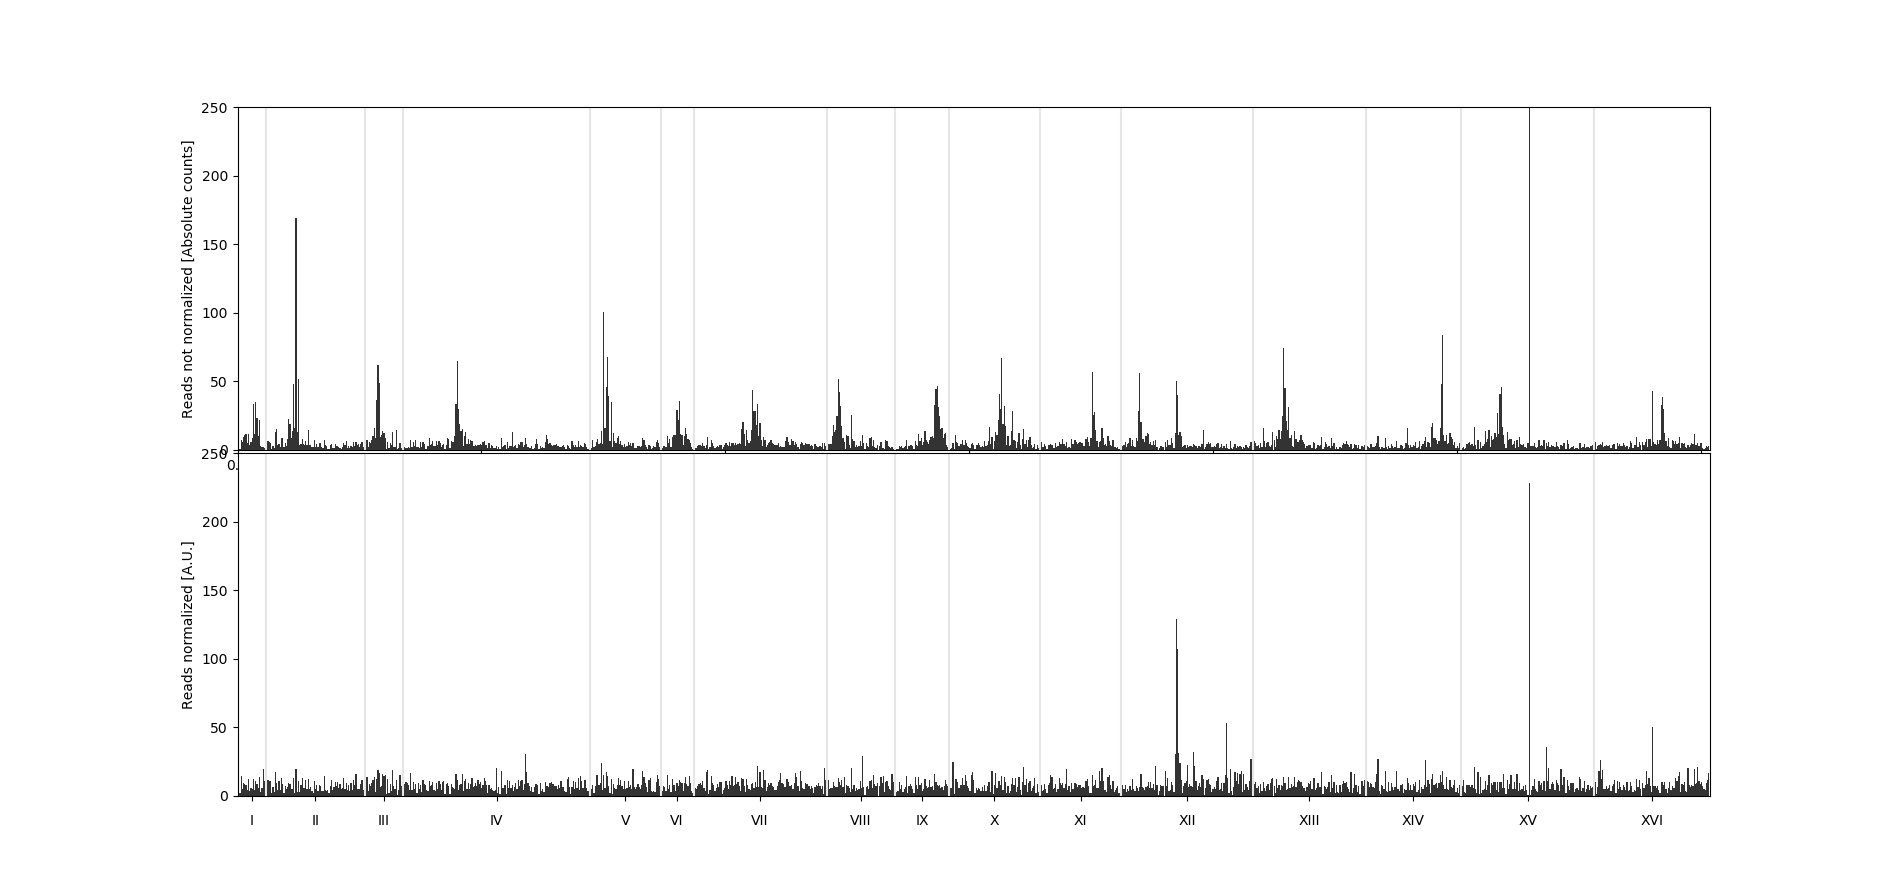
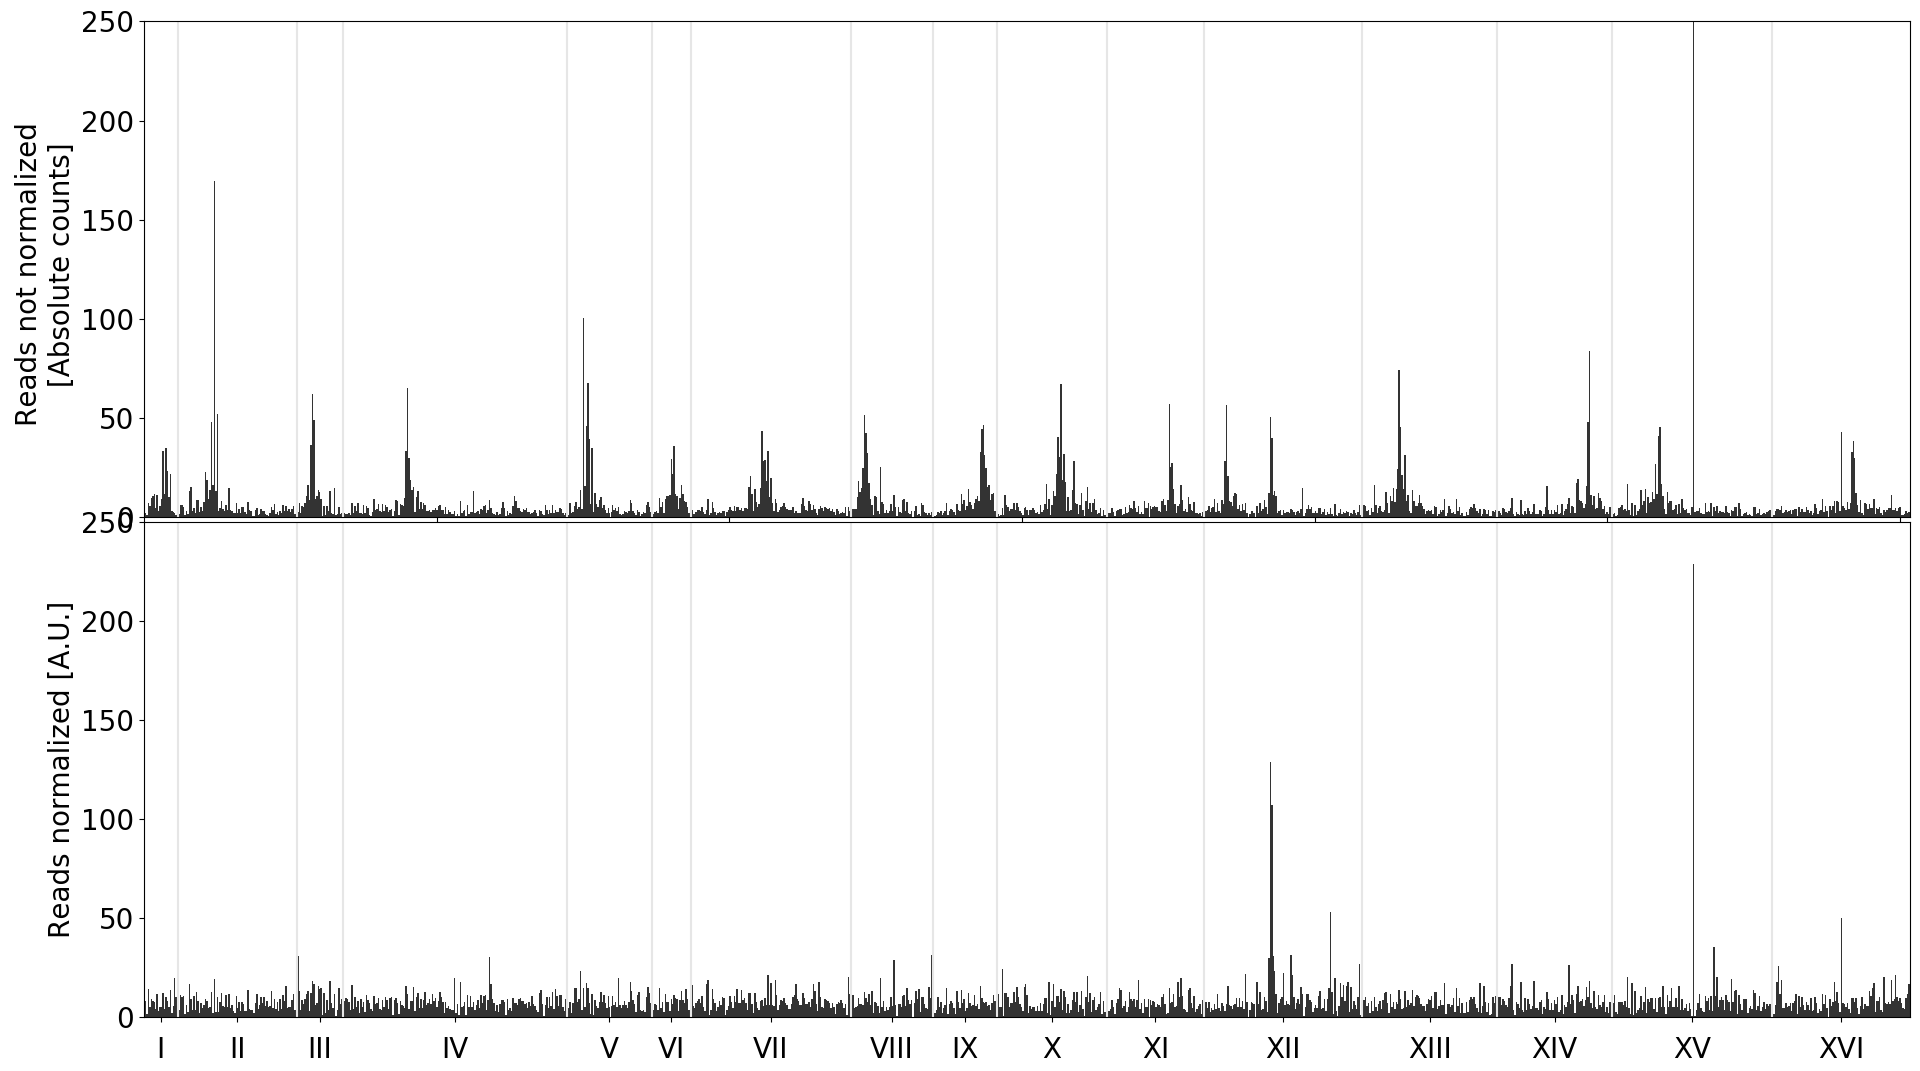
Start developing new code for normalization (normalize_reads_new.py)

diff --git a/Python_scripts/python_modules/genomicfeatures_dataframe_with_normalization.py b/Python_scripts/python_modules/genomicfeatures_dataframe_with_normalization.py
@@ -621,24 +621,24 @@ def feature_position(feature_dict, chrom, start_chr, dna_dict, feature_type=None
 
 #%%
 if __name__ == '__main__':
-#    dna_df2 = dna_features(region = 3,#['xiii', 0, 14790],
-#                 wig_file = r"C:\Users\gregoryvanbeek\Documents\testing_site\wt1_testfolder_S288C\align_out\ERR1533147_trimmed.sorted.bam.wig",
-#                 pergene_insertions_file = r"C:\Users\gregoryvanbeek\Documents\testing_site\wt1_testfolder_S288C\align_out\ERR1533147_trimmed.sorted.bam_pergene_insertions.txt",
-#                 variable="reads",
-#                 normalization_window_size=20000,
-#                 normalize=True,
-#                 plotting=True,
-#                 savefigure=False,
-#                 verbose=False)
+    dna_df2 = dna_features(region = 1,#['xiii', 0, 14790],
+                 wig_file = r"C:\Users\gregoryvanbeek\Documents\testing_site\wt1_testfolder_S288C\align_out\ERR1533147_trimmed.sorted.bam.wig",
+                 pergene_insertions_file = r"C:\Users\gregoryvanbeek\Documents\testing_site\wt1_testfolder_S288C\align_out\ERR1533147_trimmed.sorted.bam_pergene_insertions.txt",
+                 variable="reads",
+                 normalization_window_size=20000,
+                 normalize=True,
+                 plotting=True,
+                 savefigure=False,
+                 verbose=False)
 
 
-    for chrom in ['I', 'II', 'III', 'IV', 'V', 'VI', 'VII', 'VIII', 'IX', 'X', 'XI', 'XII', 'XIII', 'XIV', 'XV', 'XVI']:
-        dna_df2 = dna_features(region = chrom,
-                     wig_file = r"C:\Users\gregoryvanbeek\Documents\testing_site\wt1_testfolder_S288C\align_out\ERR1533147_trimmed.sorted.bam.wig",
-                     pergene_insertions_file = r"C:\Users\gregoryvanbeek\Documents\testing_site\wt1_testfolder_S288C\align_out\ERR1533147_trimmed.sorted.bam_pergene_insertions.txt",
-                     variable="reads",
-                     normalization_window_size=20000,
-                     normalize=True,
-                     plotting=False,
-                     savefigure=False,
-                     verbose=True)
+#    for chrom in ['I', 'II', 'III', 'IV', 'V', 'VI', 'VII', 'VIII', 'IX', 'X', 'XI', 'XII', 'XIII', 'XIV', 'XV', 'XVI']:
+#        dna_df2 = dna_features(region = chrom,
+#                     wig_file = r"C:\Users\gregoryvanbeek\Documents\testing_site\dDpl1_testfolder\align_out\E-MTAB-4885.Dpl1Kan.sorted.bam.wig",
+#                     pergene_insertions_file = r"C:\Users\gregoryvanbeek\Documents\testing_site\dDpl1_testfolder\align_out\E-MTAB-4885.Dpl1Kan.sorted.bam_pergene_insertions.txt",
+#                     variable="reads",
+#                     normalization_window_size=20000,
+#                     normalize=True,
+#                     plotting=False,
+#                     savefigure=False,
+#                     verbose=True)

diff --git a/Python_scripts/python_modules/normalize_reads_new.py b/Python_scripts/python_modules/normalize_reads_new.py
@@ -1,0 +1,63 @@
+# -*- coding: utf-8 -*-
+"""
+Created on Mon Oct 12 09:46:10 2020
+
+@author: gregoryvanbeek
+"""
+#%%
+import os
+import numpy as np
+file_dirname = os.path.dirname(os.path.abspath('__file__'))
+from mapped_reads import total_mapped_reads
+
+
+#%% TEST PARAMETERS
+len_chr = 230218
+wig_file = r"C:\Users\gregoryvanbeek\Documents\testing_site\wt1_testfolder_S288C\align_out\ERR1533147_trimmed.sorted.bam.wig"
+#dna_df2; load from genomicfeatures_dataframe_with_normalization.py with parameter 'region=1'
+
+
+#%%
+def reads_normalization_dynamic_window(dna_df2, len_chr, wig_file):
+    '''
+    '''
+
+
+    nc_df = dna_df2[dna_df2['Feature_name'] == 'noncoding']
+    nc_startposition_list = [position[0] for position in nc_df['Position'].tolist()]
+    nc_endposition_list = [position[1] for position in nc_df['Position'].tolist()]
+    nc_insrt_list = nc_df['Ninsertions'].tolist()
+
+
+    for dna in dna_df2.itertuples(index=True):
+        if dna.Index < 8:#!!!REMOVE. THIS IS TO STOP AT THE NTH ELEMENT IN DNA_DF2 FOR DEBUGGIN PURPOSES
+            print(dna.Feature_name)
+            if not dna.Feature_name == 'noncoding':
+                
+                #GET CLOSEST NONCODING REGION OF CURRENT FEATURE
+                feature_start_position = dna.Position[0]
+                difference_startposition_featureandnc_list = [abs(nc_startposition - feature_start_position) for nc_startposition in nc_startposition_list]
+                index_closest_nc_region = difference_startposition_featureandnc_list.index(min(difference_startposition_featureandnc_list))
+                
+                #DETERMINE THE NONCODING REGIONS CLOSEST TO THE CURRENT FEATURE
+                tn_innc_forwardcount = 0
+                index_count = index_closest_nc_region
+                for nc_endposition in nc_endposition_list[index_closest_nc_region:]:
+                    if tn_innc_forwardcount < 10:
+                        print('Forward count nc start position: ', nc_endposition_list[index_count])
+                        tn_innc_forwardcount += nc_insrt_list[index_count]
+                        index_count += 1
+                    else:
+                        break
+                tn_innc_reversecount = 0
+                index_count = 0
+                for nc_startposition in nc_startposition_list[:index_closest_nc_region+1]:
+                    if tn_innc_reversecount < 10:
+                        print('Reverse count nc start position: ', nc_startposition_list[index_count])
+                        tn_innc_reversecount += nc_insrt_list[index_count]
+                        index_count += 1
+                    else:
+                        break
+
+        else:#!!!REMOVE
+            break#!!!REMOVE

diff --git a/Python_scripts/Tn_DataExploration.py b/Python_scripts/Tn_DataExploration.py
@@ -1,0 +1,34 @@
+# -*- coding: utf-8 -*-
+"""
+Created on Mon Oct 19 14:57:39 2020
+
+@author: gregoryvanbeek
+"""
+
+import matplotlib.pyplot as plt
+from chromosome_and_gene_positions import chromosome_position
+
+#%% CHECK DISTRIBUTION OF READ COUNT
+
+wig_file = r"C:\Users\gregoryvanbeek\Documents\GitHub\LaanLab-SATAY-DataAnalysis\satay_analysis_testdata\Output_Processing_WT1_KornmannLab\ERR1533147_trimmed.sorted.bam.wig"
+
+chrom_list = ['I','II','III','IV','V','VI','VII','VIII','IX','X','XI','XII','XIII','XIV','XV','XVI']
+chr_length_dict = chromosome_position(r"C:\Users\gregoryvanbeek\Documents\GitHub\LaanLab-SATAY-DataAnalysis\Python_scripts\Data_Files\Saccharomyces_cerevisiae.R64-1-1.99.gff3")[0]
+
+with open(wig_file,'r') as f:
+    lines = f.readlines()
+
+
+read_list = [0] * sum([chr_len for chr_name, chr_len in chr_length_dict.items()])
+c = 0
+chrom_sum_len = 0
+for line in lines[2:]:
+    if c < 16:
+        if not line.startswith('Variable'):
+            line_split = line.strip('\n').split(' ')
+            read_list[int(line_split[0]) + chrom_sum_len] = int(line_split[1])
+        else:
+            chrom_sum_len += chr_length_dict.get(chrom_list[c])
+            c += 1
+
+plt.hist(read_list, bins=range(min(read_list), max(read_list) + 100, 100))

diff --git a/Python_scripts/fitness_from SATAY_codes/genomicfeatures_dataframe_with_normalization_genomeplot.py b/Python_scripts/fitness_from SATAY_codes/genomicfeatures_dataframe_with_normalization_genomeplot.py
@@ -81,6 +81,8 @@ def genome_normalization_plot(wig_file=None, pergene_insertions_file=None, varia
     
     
     #%% PLOTTING
+    textsize = 20
+    
     plt.figure(figsize=(19,9))
     grid = plt.GridSpec(2, 1, wspace=0.0, hspace=0.01)
     
@@ -90,14 +92,17 @@ def genome_normalization_plot(wig_file=None, pergene_insertions_file=None, varia
     ax1.grid(False)
     ax1.set_xlim(0,l_genome)
     ax1.set_ylim(0,250)
-    ax1.set_ylabel("Reads not normalized [Absolute counts]")
+    ax1.set_ylabel("Reads not normalized \n [Absolute counts]", fontsize=textsize)
+    ax1.tick_params(labelsize=textsize)
+    ax1.tick_params(axis='x', labelbottom=False)
     
     ax2 = plt.subplot(grid[1,0])
     ax2.bar(bins, binned_norm_reads_list, width=N_bins, color="#333333")
     ax2.grid(False)
     ax2.set_xlim(0,l_genome)
     ax2.set_ylim(0,250)
-    ax2.set_ylabel("Reads normalized [A.U.]")
+    ax2.set_ylabel("Reads normalized [A.U.]", fontsize=textsize)
+    ax2.tick_params(labelsize=textsize)
     
     for chrom in chr_summedlength_dict:
         ax1.axvline(x = chr_summedlength_dict.get(chrom), linestyle='-', color=(0.9,0.9,0.9,1.0))
